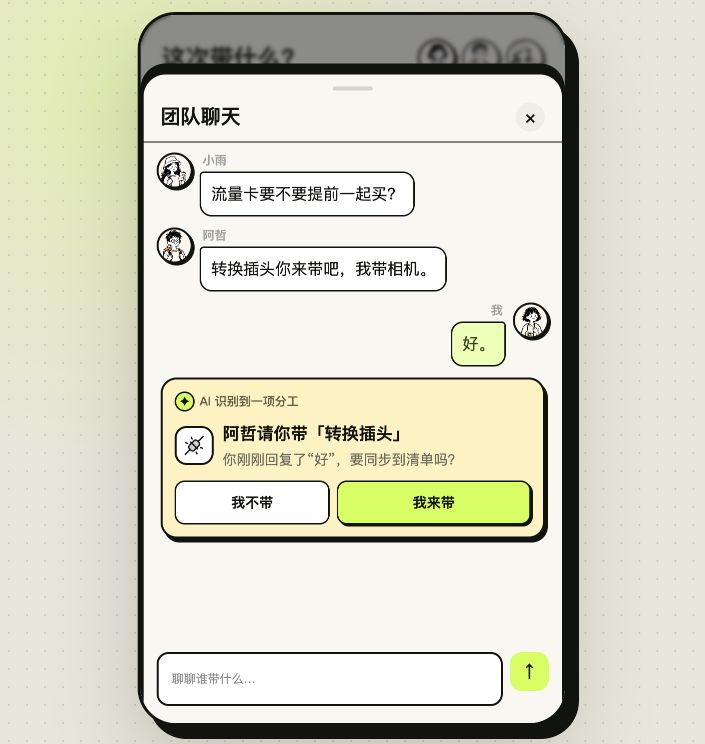
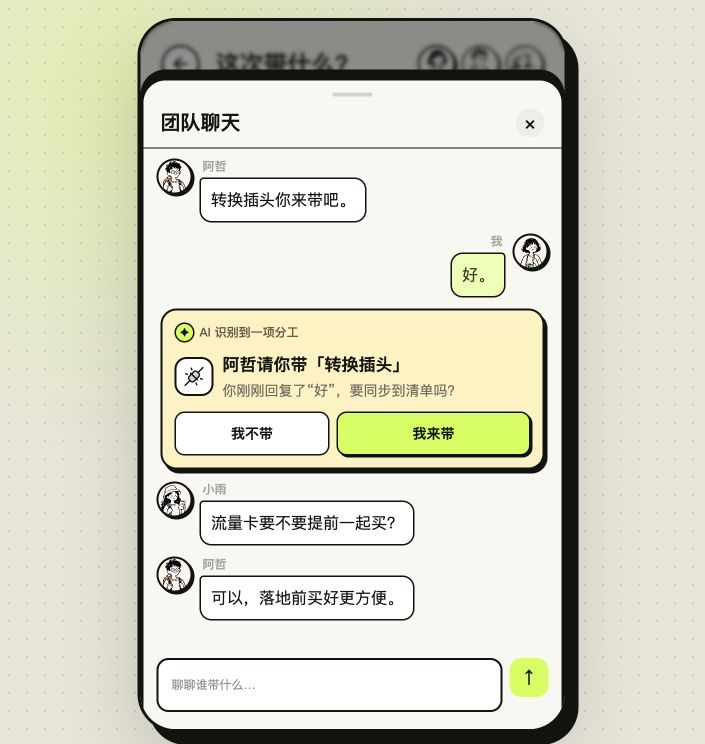
Clarify AI assignment demo conversation

Changed region(s): [[0.1872, 0.0, 0.8113, 0.8347], [0.1872, 0.8656, 0.8113, 1.0], [0.8113, 0.0618, 0.8426, 0.0927]]

diff --git a/app/page.tsx b/app/page.tsx
@@ -301,15 +301,17 @@ const seedSuggestions: Suggestion[] = [
 ];
 
 const seedMessages: ChatMessage[] = [
-  { id: 1, author: "小雨", text: "流量卡要不要提前一起买？" },
-  { id: 2, author: "阿哲", text: "转换插头你来带吧，我带相机。" },
-  { id: 3, author: "我", text: "好。" },
+  { id: 1, author: "阿哲", text: "转换插头你来带吧。" },
+  { id: 2, author: "我", text: "好。" },
+  { id: 3, author: "小雨", text: "流量卡要不要提前一起买？" },
+  { id: 4, author: "阿哲", text: "可以，落地前买好更方便。" },
 ];
 
 const domesticSeedMessages: ChatMessage[] = [
-  { id: 1, author: "小雨", text: "雨伞要不要多带一把？" },
-  { id: 2, author: "阿哲", text: "充电器你来带吧，我带相机。" },
-  { id: 3, author: "我", text: "好。" },
+  { id: 1, author: "阿哲", text: "充电器你来带吧。" },
+  { id: 2, author: "我", text: "好。" },
+  { id: 3, author: "小雨", text: "雨伞要不要多带一把？" },
+  { id: 4, author: "阿哲", text: "看天气再决定。" },
 ];
 
 const seedItemNotes: ItemNote[] = [
@@ -342,7 +344,7 @@ export default function Home() {
   const [noteDraft, setNoteDraft] = useState("");
   const [messages, setMessages] = useState<ChatMessage[]>(seedMessages);
   const [itemNotes, setItemNotes] = useState<ItemNote[]>(seedItemNotes);
-  const [assignmentProposal, setAssignmentProposal] = useState<AssignmentProposal | null>({ itemId: 11, requester: "阿哲", target: "我", afterMessageId: 3 });
+  const [assignmentProposal, setAssignmentProposal] = useState<AssignmentProposal | null>({ itemId: 11, requester: "阿哲", target: "我", afterMessageId: 2 });
   const [activeItemId, setActiveItemId] = useState<number | null>(null);
   const [unreadItemIds, setUnreadItemIds] = useState<Set<number>>(() => new Set([11, 13, 41]));
   const [expandedCategories, setExpandedCategories] = useState<Set<Category>>(() => new Set(["电子数码类"]));
@@ -497,7 +499,7 @@ export default function Home() {
     const international = isInternationalDestination(cleanDestination);
     setItems(preparedItems);
     setMessages(international ? seedMessages : domesticSeedMessages);
-    setAssignmentProposal({ itemId: international ? 11 : 7, requester: "阿哲", target: "我", afterMessageId: 3 });
+    setAssignmentProposal({ itemId: international ? 11 : 7, requester: "阿哲", target: "我", afterMessageId: 2 });
     const visibleNotes = seedItemNotes.filter((note) => preparedItems.some((item) => item.id === note.itemId));
     setItemNotes(visibleNotes);
     setUnreadItemIds(new Set(visibleNotes.map((note) => note.itemId)));
